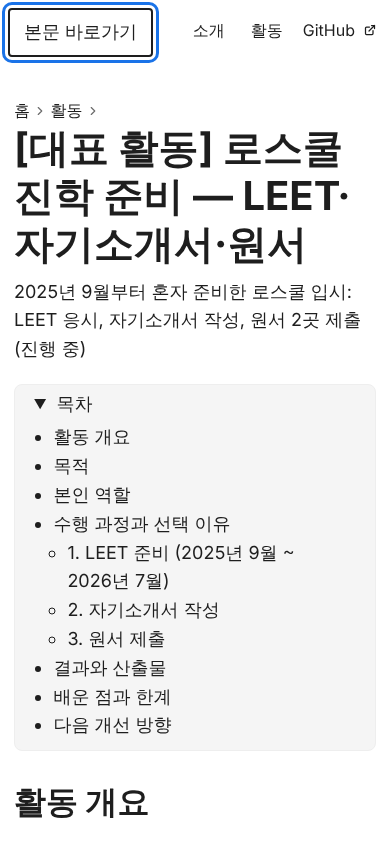
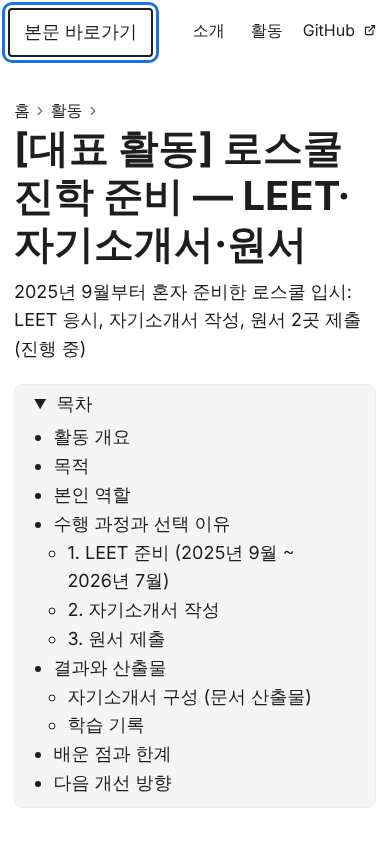
검증: 최종 사이트(82b6979) 빌드로 자동 점검 재실행, docs/evidence/auto 갱신 — 링크·앵커 36개·겹침 0건·결함 0건
Claude-Session: https://claude.ai/code/session_01VJkEkmwDDXS8CYsjr9oT2h

Changed region(s): [[0.0308, 0.8009, 0.6154, 0.9858], [0.6462, 0.8009, 0.8, 0.8626]]

diff --git a/docs/evidence/README.md b/docs/evidence/README.md
@@ -8,13 +8,13 @@
 
 ## 자동 점검 결과 (`docs/evidence/auto/`)
 
-`docs/tools/check_site.py`로 커밋 `62a10d4`(사이트 최종본)의 배포용 빌드(`python .github/pages_build.py --build`)를 점검한 결과입니다.
+`docs/tools/check_site.py`로 커밋 `82b6979`(사이트 최종본)의 배포용 빌드(`python .github/pages_build.py --build`)를 점검한 결과입니다.
 공개 주소 `https://won-ji1.github.io/portfolio/` 요청을 같은 커밋의 `public/` 파일로 응답하게 해 배포 경로(/portfolio/)를 그대로 재현했습니다.
-환경: Chromium 153.0.8010.12 (Playwright, Linux) · 점검 시각 2026-10-31 04:02 KST (처음 점검 02:37 커밋 c38640f, 재점검 03:49 커밋 a6447c6 → 최종 사이트 변경 후 다시 점검)
+환경: Chromium 153.0.8010.12 (Playwright, Linux) · 점검 시각 2026-10-31 04:14 KST (처음 점검 02:37 커밋 c38640f, 재점검 03:49 a6447c6·04:02 62a10d4 → 최종 사이트 변경 후 다시 점검)
 
 | 파일 | 내용 | 화면 폭 |
 | --- | --- | --- |
-| `report.json` | 5개 페이지 × 4개 폭 점검 결과, 내부 링크 34개, Tab 순서, '맨 위로' 버튼 겹침 스캔(toplink_overlaps: 0건), 테마 버튼 Enter 전환, 앵커 새로고침, 결함 목록(issues: 0건) | 1440·768·390·360px (겹침 스캔은 1440·900·768·390·360px × 창 높이 900·420px) |
+| `report.json` | 5개 페이지 × 4개 폭 점검 결과, 내부 링크·앵커 36개, Tab 순서, '맨 위로' 버튼 겹침 스캔(toplink_overlaps: 0건), 테마 버튼 Enter 전환, 앵커 새로고침, 결함 목록(issues: 0건) | 1440·768·390·360px (겹침 스캔은 1440·900·768·390·360px × 창 높이 900·420px) |
 | `skip_link_390.png` | 대표 활동 페이지에서 첫 Tab 시 "본문 바로가기"와 3px 초점 테두리 표시 | 390px |
 | `keyboard_focus.png` | 소개 페이지에서 Tab 14회 후 초점 위치 표시 | 1440px |
 | `404_390.png` | 없는 주소(/portfolio/no-such-page/deep/) 접속 시 한국어 404 안내와 홈·소개·활동 링크 | 390px |
@@ -29,4 +29,4 @@
 | `390_home_before.png` | 개선 전 홈 화면. 제목 "한지원입니/다", 소개 "있습니/다"처럼 단어 중간 줄바꿈, 활동 요약이 "1차 결과 대…"로 잘림 | 390px |
 | `report_before.json` | 개선 전 점검 기록. 결함 0건이지만 Tab 초점이 `outline auto 1px`(브라우저 기본값), 메뉴 링크 폭 32px로 측정됨 → 2차 개선의 근거 | 1440·768·390px |
 
-참고: `docs/evidence/auto/`의 결과는 사이트의 마지막 변경 커밋 `62a10d4` 빌드로 점검한 것입니다. 그 뒤 커밋은 `docs/` 폴더만 바꿉니다.
+참고: `docs/evidence/auto/`의 결과는 사이트의 마지막 변경 커밋 `82b6979` 빌드로 점검한 것입니다. 그 뒤 커밋은 `docs/` 폴더만 바꿉니다.
